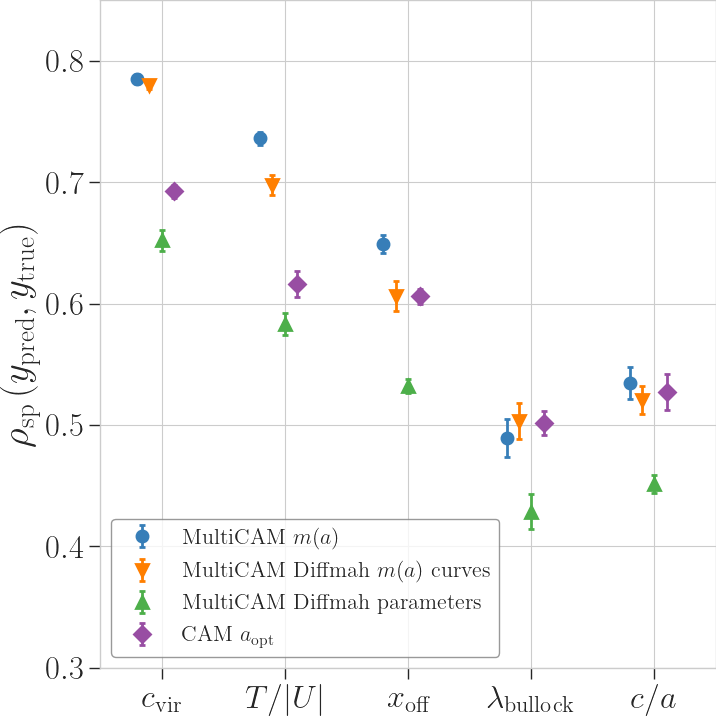
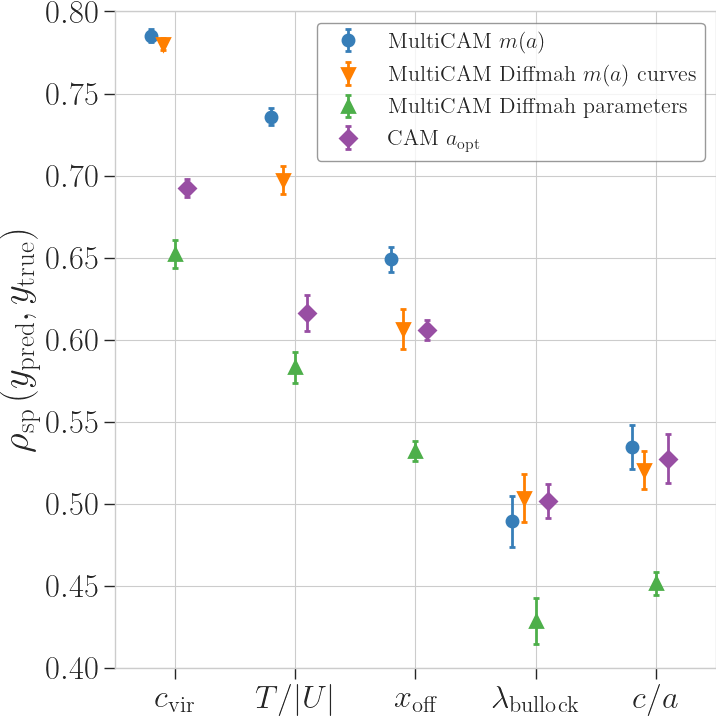
narrower limit in forward prediction figure

diff --git a/bin/figures.py b/bin/figures.py
@@ -907,10 +907,10 @@ class ForwardPredMetrics(Figure):
             mval, merr = output[mdl]["val"], output[mdl]["err"]
             rxplots.metrics_plot(ax, mval, merr, self.params, label, x_bias, m, c)
             x_bias += 0.1
-        ax.set_ylim(0.3, 0.85)
+        ax.set_ylim(0.4, 0.8)
         ax.set_xlim(-0.5, len(self.params) - 0.5)
         ax.set_ylabel(rf"${rho_latex}\left(y_{{\rm pred}}, y_{{\rm true}}\right)$")
-        ax.legend()
+        ax.legend(loc="upper right")
         return {"forward_pred_metrics": fig}
 
 
